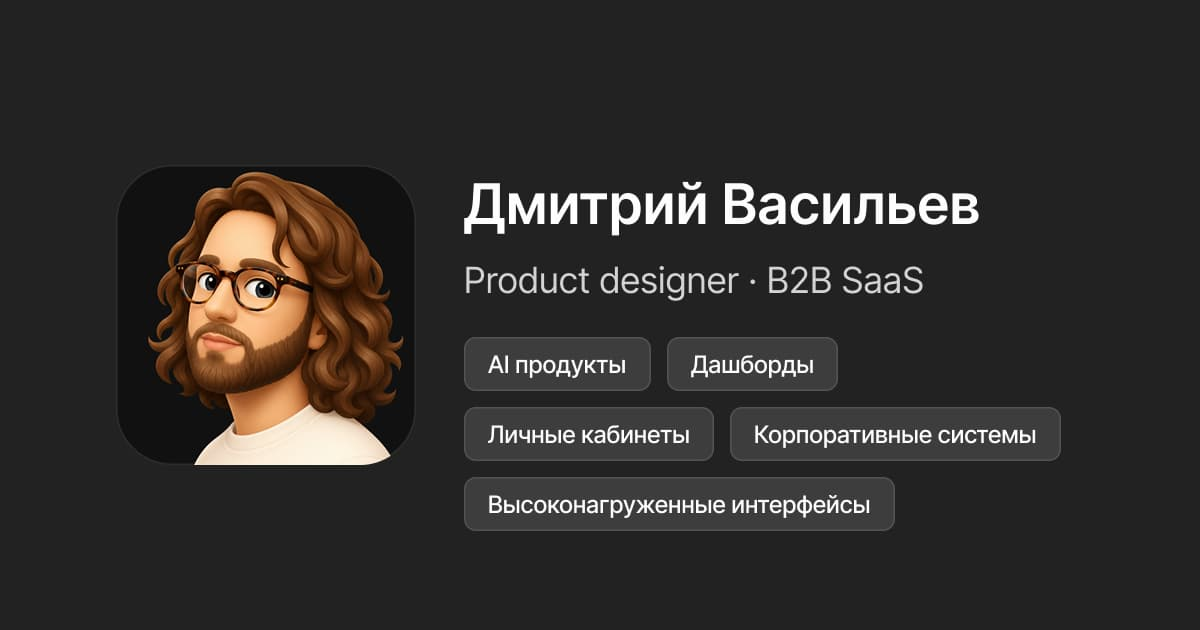
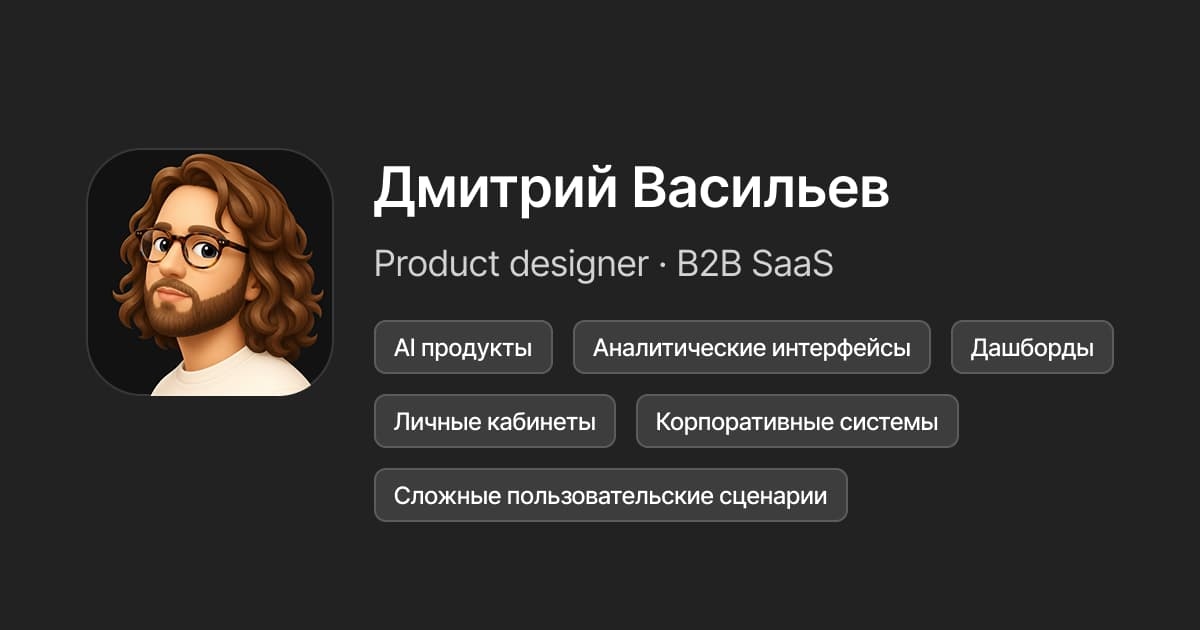
описание

Changed region(s): [[0.0925, 0.2413, 0.9558, 0.8444]]

diff --git a/app/layout.tsx b/app/layout.tsx
@@ -22,18 +22,18 @@ const interTight = Inter_Tight({
 export const metadata: Metadata = {
   metadataBase: new URL("https://dvasilevdesign.vercel.app"),
 
-  title: "Дмитрий Васильев Product Designer",
+  title: "Дмитрий Васильев – Product designer",
   description: "Портфолио продуктового дизайнера",
 
   openGraph: {
-    title: "Дмитрий Васильев Product Designer",
-    description: "Портфолио продуктового дизайнера",
+    title: "Дмитрий Васильев – Product designer",
+    description: "Специализируюсь на сложных аналитических интерфейсах, дашбордах, AI-продуктах, корпоративных системах, личных кабинетах и на переводе бизнес-задач в конкретные UX-решения.",
     images: [
       {
         url: "/portfolio_ogimage.jpg",
         width: 1200,
         height: 630,
-        alt: "Дмитрий Васильев — Product Designer",
+        alt: "Дмитрий Васильев – Product designer",
       },
     ],
     type: "website",
@@ -42,8 +42,8 @@ export const metadata: Metadata = {
 
   twitter: {
     card: "summary_large_image",
-    title: "Дмитрий Васильев Product Designer",
-    description: "Портфолио продуктового дизайнера",
+    title: "Дмитрий Васильев – Product designer",
+    description: "Специализируюсь на сложных аналитических интерфейсах, дашбордах, AI-продуктах, корпоративных системах, личных кабинетах и на переводе бизнес-задач в конкретные UX-решения.",
     images: ["/portfolio_ogimage.jpg"],
   },
 };
